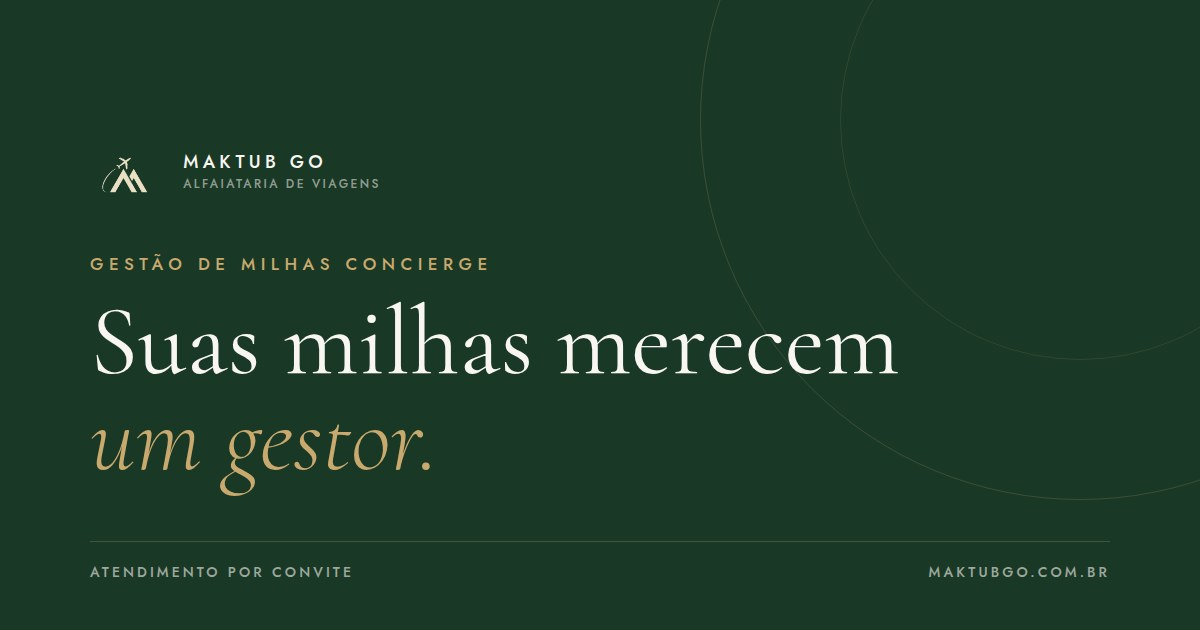
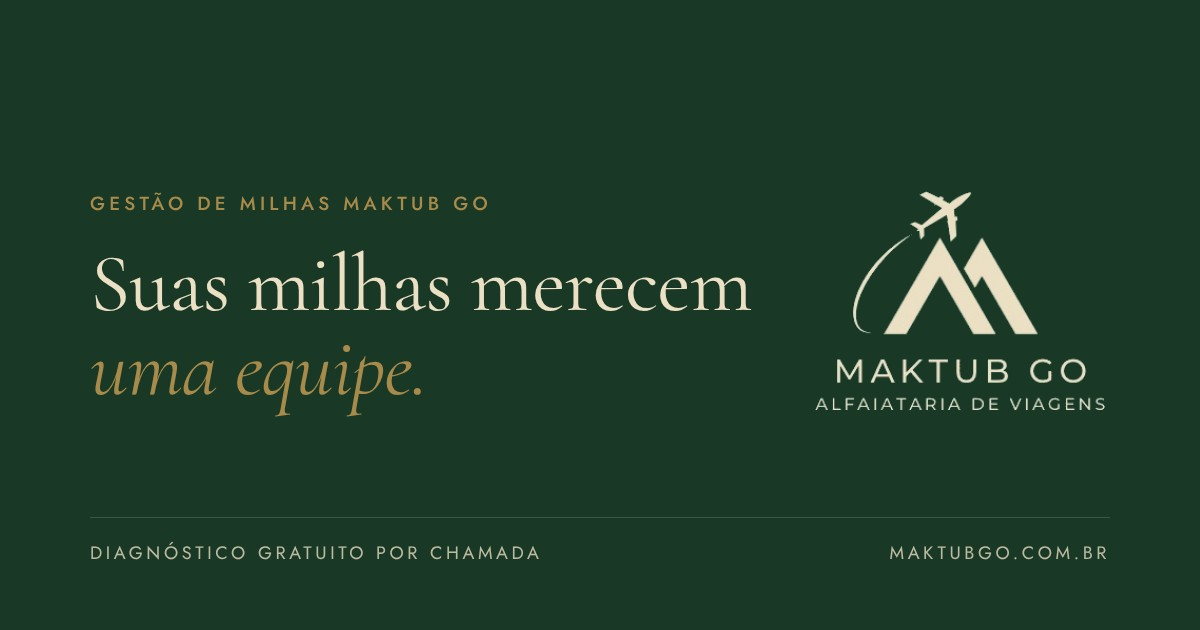
Imagens de compartilhamento novas e /diagnostico/ sem o botão do WhatsApp
- og-maktubgo.jpg: "Seus pontos viram viagens. A gente cuida do caminho."
- og-gestao-de-milhas.jpg: "Suas milhas merecem uma equipe."
  Ambas com a logo oficial creme de ativos/ e as cores da marca
- /diagnostico/: botão flutuante do WhatsApp removido

Claude-Session: https://claude.ai/code/session_014srz5KK5v3E87CrPSkLuvU

diff --git a/diagnostico/index.html b/diagnostico/index.html
@@ -50,12 +50,9 @@ h1 em{display:block;font-style:italic;color:var(--dourado-texto)}
 .diag-seg li{padding-left:18px;position:relative}
 .diag-seg li::before{content:'';position:absolute;left:0;top:.62em;width:6px;height:6px;background:var(--dourado-claro)}
 .diag-seg a{color:var(--dourado-claro)}
-.zap{position:fixed;right:22px;bottom:22px;z-index:90;width:56px;height:56px;border-radius:50%;background:#25d366;display:grid;place-items:center;box-shadow:0 5px 20px rgba(0,0,0,.22)}
-.zap svg{width:27px;height:27px;fill:#fff}
 @media (max-width:860px){
   .diag{grid-template-columns:1fr;grid-template-areas:"texto" "form" "seg";padding-top:96px;gap:22px}
   .diag-gratis{margin-top:10px}
-  .zap{right:16px;bottom:16px}
 }
 @media (prefers-reduced-motion:reduce){*{transition-duration:.01ms!important}}
 </style>
@@ -258,9 +255,6 @@ footer.mk-rodape{background:#1a3826;color:rgba(249,246,241,.78);padding:56px 0 2
   </div>
 </footer>
  
-<a class="zap" href="https://wa.me/5521976275225?text=Ol%C3%A1!%20Quero%20saber%20mais%20sobre%20a%20Gest%C3%A3o%20de%20Milhas%20Maktub%20Go." target="_blank" rel="noopener" aria-label="Falar com a Maktub Go no WhatsApp">
-  <svg viewBox="0 0 24 24" aria-hidden="true"><path d="M17.5 14.4c-.3-.2-1.7-.8-2-.9-.3-.1-.5-.2-.7.1-.2.3-.7.9-.9 1.1-.2.2-.3.2-.6.1-1.7-.8-2.8-1.5-3.9-3.4-.3-.5.3-.5.8-1.5.1-.2 0-.4 0-.5 0-.2-.7-1.6-.9-2.2-.2-.5-.5-.5-.7-.5h-.6c-.2 0-.5.1-.8.4-.3.3-1 1-1 2.5s1.1 2.9 1.2 3.1c.1.2 2.1 3.3 5.2 4.6 1.9.8 2.7.9 3.6.8.6-.1 1.7-.7 2-1.4.2-.7.2-1.2.2-1.4-.1-.1-.3-.2-.6-.3M12 2a10 10 0 0 0-8.6 15L2 22l5.1-1.3A10 10 0 1 0 12 2Z"/></svg>
-</a>
 <script>
 /* menu em telas menores */
 const btn = document.getElementById('menuBtn');
